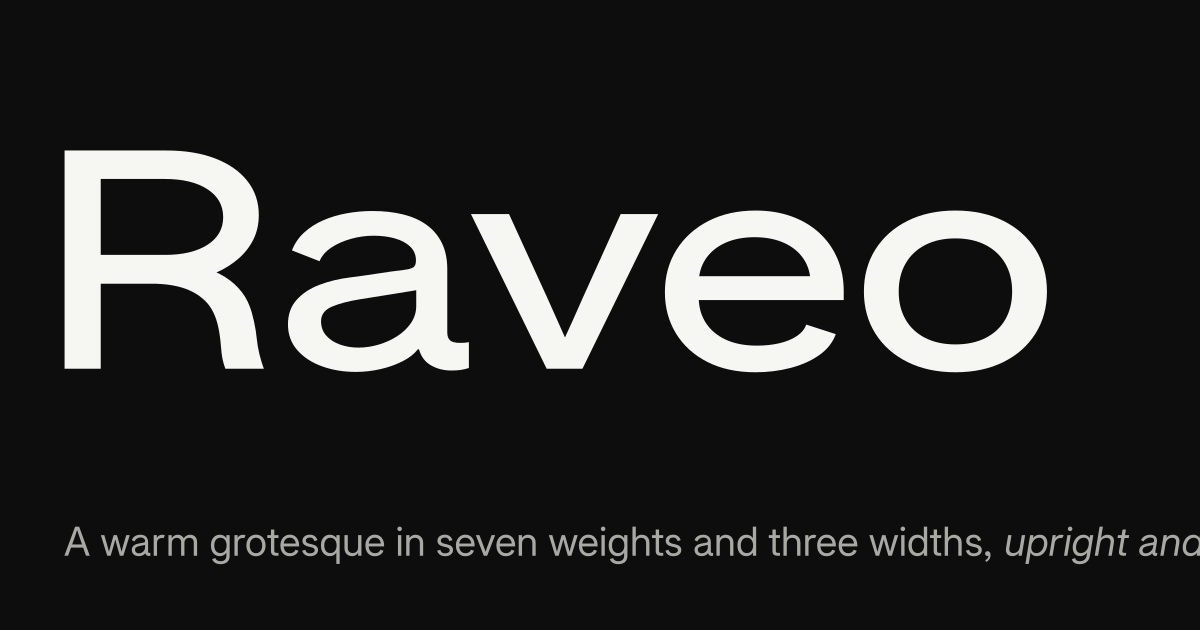
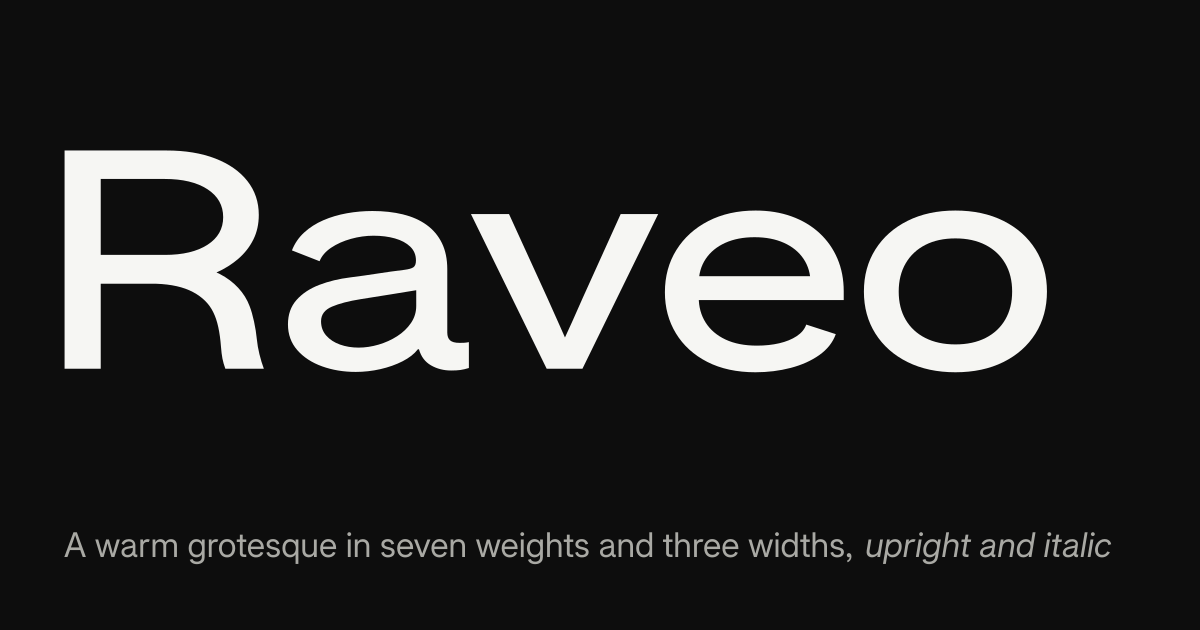
Corrections before the release
The sharing image no longer runs off its edge. Capital forms and Ordinals show what they do.
Dots were round before 2.0: only commas and quotes are new. 1.1 had Light and Black as static
fonts. Spacing at the regular width changed for r, a, the semicolon, the quotes and ď ť ľ.
The 51 characters 2.0 adds are named. The readme in the download lists its styles with commas
and gives Medium as 520.

Changed region(s): [[0.0617, 0.8444, 1.0, 0.9048]]

diff --git a/site/index.html b/site/index.html
@@ -778,7 +778,7 @@ const DETAILS = [
   ["r", "The r", "A longer, flatter arm that reaches toward the next letter.", 520, 100],
   ["a", "The a, wide", "At the wide and narrow ends the bowl is redrawn: more open, its stroke meeting the stem at an angle.", 520, "max"],
   ["ces", "Stroke endings", "Curved strokes are cut at an angle and the openings are wider.", 520, 100],
-  ["ij;", "Round dots", "Dots, commas and quotes are round.", 520, 100],
+  [",;", "Round commas", "Commas and semicolons are round.", 520, 100],
   ["„a“", "Quotes", "Round quotes, set as close as Raveo sets its own.", 520, 100],
   ["ďť", "The tick", "The tick of ď ť ľ sits near the stem and the next letter tucks under it.", 520, 100],
   ["R", "The R", "A curled leg, since the first Raveo.", 520, 100],
@@ -812,7 +812,7 @@ function pick(cp) {
   document.querySelectorAll(".cells button").forEach((b) => b.classList.toggle("on", Number(b.dataset.cp) === cp));
 }
 function buildCharacters() {
-  const seen = D.characters.filter((c) => !UNSEEN(c[2])), unseen = D.characters.length - seen.length, groups = [];
+  const seen = D.characters.filter((c) => !UNSEEN(c[2])), unseen = D.character_count - seen.length, groups = [];
   const left = store.allChars ? seen.slice() : seen.filter((c) => EVERYDAY(c[0]));
   for (const [title, test] of SETS) {
     const mine = left.filter((c) => test(c[2]));
@@ -829,9 +829,9 @@ function buildCharacters() {
 
 const FEATURES = [
   ["tnum", "Tabular figures", "Every digit takes the same width, so columns line up.", "1 117 410,10\n9 008 944,98"],
-  ["case", "Capital forms", "Punctuation moves up to sit with capitals.", "(H-H) [A:B] «¿QUÉ?»"],
+  ["case", "Capital forms", "Punctuation moves up to sit with capitals and figures.", "¡HOLA! 7 – 9"],
   ["calt", "Contextual alternates", "A times sign between figures, arrows from hyphens, a raised colon in times.", "1920x1080 -> 12:30"],
-  ["ordn", "Ordinals", "Letters after a figure rise, and No. becomes the numero sign.", "1a 2o, No. 7"],
+  ["ordn", "Ordinals", "No. becomes the numero sign.", "No. 7"],
   ["kern", "Kerning", "On by default.", "Toyota, Vary, LAVA. „Ty“"],
 ];
 function buildFeatures() {
@@ -864,12 +864,13 @@ function buildDownload() {
   const { wght: [gl, , gh], wdth: [wl, , wh] } = D.axes;
   $("news").innerHTML = [["Width", `An axis from ${wl} to ${wh}, with Narrow and Wide as named styles at every weight.`],
     ...(D.italic ? [["Italic", "An italic for every style, as a second variable font and as static files."]] : []),
-    ["Weights", `The axis now runs from ${gl} to ${gh}; Light and Black join the named weights. Styles lighter than ${gl} are gone.`],
+    ["Weights", `The axis now runs from ${gl} to ${gh}. Styles lighter than ${gl} are gone.`],
     ["Stroke endings", "Curved strokes end in an angled cut and the openings of a, c, e and s are wider."],
-    ["Dots and commas", "Round dots, commas and quotes; the tick of ď ť ľ sits closer to its letter."],
-    ["Letters", "A longer arm on the r, and a redrawn bowl on the a at the narrow and wide ends."]]
+    ["Commas and quotes", "Round commas and quotes; the tick of ď ť ľ sits closer to its letter."],
+    ["Letters", "A longer arm on the r, and a redrawn bowl on the a at the narrow and wide ends."],
+    ["Characters", "51 more, among them æ ø ð œ ă ğ ő ű and « »: Danish, Norwegian, Icelandic, Hungarian, Romanian and Turkish can be set."]]
     .map(([k, v]) => `<li><b>${k}</b><span>${v}</span></li>`).join("");
-  $("versions").innerHTML = [[D.version, `${new Date(D.date).toLocaleDateString("en-GB", { month: "long", year: "numeric" })}: width axis, ${D.italic ? "italics, " : ""}angled stroke endings, round dots`], ["1.1", "October 2024: the first public release"]]
+  $("versions").innerHTML = [[D.version, `${new Date(D.date).toLocaleDateString("en-GB", { month: "long", year: "numeric" })}: width axis, ${D.italic ? "italics, " : ""}angled stroke endings, round commas and quotes`], ["1.1", "October 2024: the first public release"]]
     .map(([k, v]) => `<li><span class="num">${k}</span><span>${v}</span></li>`).join("");
   $("lineage").innerHTML = [["Inter", "Rasmus Andersson"], ["Raveo 1.1", "Jakub Foglar, 2024"], [`Raveo ${D.version}`, `Jakub Foglar, ${new Date(D.date).getFullYear()}`], ["Source", `<a href="${D.github}">GitHub</a>`]]
     .map(([k, v]) => `<li><span>${k}</span><span>${v}</span></li>`).join("");

diff --git a/tools/release.py b/tools/release.py
@@ -229,11 +229,12 @@ installed twice. What changes:
                        versions) are gone; CSS weights below {lightest} show the Light.
   Display styles       They are part of the family "{family}" now ("{family} Display Bold"), no longer a
                        family "Raveo Display". Documents set in a Display style ask for the font again.
-  Quotes and commas    Round by default; they were square.
+  Quotes and commas    Round; they were square.
   File names           Static fonts are TrueType (.ttf) named {slug}-<Style>.ttf; the variable font is
                        {slug}-VF.ttf and {slug}-VF.woff2 (was RaveoVF). Update paths in CSS.
-  Kept                 Every character of 1.1, the variable font's names ("Raveo Variable"), line
-                       height and the spacing of the regular width.
+  Kept                 Every character of 1.1, the variable font's names ("Raveo Variable") and the
+                       line height. At the regular width only r, a, the semicolon, the quotes and
+                       ď ť ľ are spaced differently.
 """ if family == "Raveo" else ""
     single = f"""
         @font-face {{{{ font-family: "{family}"; src: url("{slug}-VF.woff2") format("woff2");
@@ -277,7 +278,6 @@ DESKTOP
 
 Install the variable font{"s" if italic else ""} or the static fonts; one set is enough. The variable font is listed as
 "{family} Variable", the static fonts as "{family}", so they do not answer to each other's names.
-If Raveo 1.1 is installed, remove it first: its files have the same names inside.
 
 desktop/variable/{slug}-VF.ttf
     One file with every {"upright " if italic else ""}style. Use this in Figma, Keynote, Adobe apps and browsers.
@@ -285,7 +285,7 @@ desktop/variable/{slug}-VF.ttf
 desktop/static/
     One file per named style, for apps that do not support variable fonts (PowerPoint, Word).
     The styles{", each also as Italic" if italic else ""}:
-    {(chr(10) + '    ').join(rows)}
+    {(',' + chr(10) + '    ').join(rows)}
 
 
 WEB
@@ -301,7 +301,7 @@ web/{slug}-VF-european.woff2{more}, web/{slug.lower()}.css
     the other the rare letters.
 
         <link rel="stylesheet" href="{slug.lower()}.css">
-        h1 {{ font-family: "{family}", sans-serif; font-weight: 500; font-stretch: {axes['wdth'][1]:g}%; }}
+        h1 {{ font-family: "{family}", sans-serif; font-weight: 520; font-stretch: {axes['wdth'][1]:g}%; }}
 {italic_web}{slim_part}
 web/static/
     Static styles as WOFF2, for the rare case a variable font cannot be used.

diff --git a/tools/site_page.py b/tools/site_page.py
@@ -67,6 +67,9 @@ LANGUAGES = [
 ]
 
 
+ENGLISH = {"Tiếng Việt": "Vietnamese"}      # what a language is called in a sentence of the page
+
+
 def _measure(path, location):
     """Stem, x-height and average letter width of one style, in font units."""
     font = instancer.instantiateVariableFont(TTFont(path), location)
@@ -114,7 +117,7 @@ def describe(path, recipe):
         "character_count": sum(1 for cp in cmap if not 0xE000 <= cp <= 0xF8FF),      # without private-use alternates
         "languages": [{"name": name, "lang": lang, "text": text} for name, lang, text in LANGUAGES
                       if all(ord(ch) in have for ch in text if not ch.isspace())],
-        "unsupported": [name for name, _, text in LANGUAGES if not all(ord(ch) in have for ch in text if not ch.isspace())],
+        "unsupported": [ENGLISH.get(name, name) for name, _, text in LANGUAGES if not all(ord(ch) in have for ch in text if not ch.isspace())],
         "github": GITHUB,
     }
     if "opsz" in axes:
@@ -181,9 +184,16 @@ def _share_image(variable, slanted, out):
         if word.width > width - 2 * margin:
             word = word.resize((width - 2 * margin, round(word.height * (width - 2 * margin) / word.width)), Image.LANCZOS)
         page.paste(word, (margin, 150))
-        parts = [line(variable, "A warm grotesque in seven weights and three widths" + ("," if slanted else ""), 40, "opsz=32,wght=400,wdth=100", QUIET)]
-        if slanted:
-            parts.append(line(slanted, "upright and italic", 40, "opsz=32,wght=400,wdth=100", QUIET))
+        def under(size):
+            parts = [line(variable, "A warm grotesque in seven weights and three widths" + ("," if slanted else ""), size, "opsz=32,wght=400,wdth=100", QUIET)]
+            if slanted:
+                parts.append(line(slanted, "upright and italic", size, "opsz=32,wght=400,wdth=100", QUIET))
+            return parts
+
+        parts, room = under(40), width - 2 * margin
+        taken = sum(part.width for part in parts) + 12 * (len(parts) - 1)
+        if taken > room:                                    # the line must end inside the picture
+            parts = under(int(40 * room / taken))
         x, y = margin, height - margin - max(part.height for part in parts)
         for part in parts:
             page.paste(part, (x, y))

diff --git a/README.md b/README.md
@@ -80,17 +80,17 @@ files without the width axis at about half the size, for pages that never use th
 
 - The weight axis starts at 300. Thin and ExtraLight are gone; weights below 300 show the Light.
 - Display styles belong to the family "Raveo" ("Raveo Display Bold"); there is no family "Raveo Display".
-- Quotes and commas are round by default.
+- Quotes and commas are round.
 - Static fonts are TrueType, named `Raveo-<Style>.ttf`; the variable font is `Raveo-VF`, not `RaveoVF`.
-- Every character of 1.1 is still there, with the same line height and the same spacing at the regular
-  width.
+- Every character of 1.1 is still there, with the same line height. At the regular width only r, a, the
+  semicolon, the quotes and ď ť ľ are spaced differently.
 
 The 1.1 files stay in [`fonts/`](fonts) at their old paths, so pages that link them keep working.
 
 ## Building it
 
-The masters in `sources/` are drawn by hand. A script derives the widths, the italic and the weights in
-between from them; its settings are in `recipe.json`.
+The masters in `sources/` are drawn by hand. `tools/pipeline.py` builds the family from them with the
+settings in `recipe.json`.
 
 ```sh
 python3 -m venv .venv && .venv/bin/pip install -r requirements.txt    # Python 3.12
@@ -108,15 +108,7 @@ The sharing image of the page needs `hb-view` (HarfBuzz); everything else comes 
 .venv/bin/python tools/serve.py                # http://localhost:4173/workbench/
 ```
 
-A page for tuning the recipe: every setting is a slider, the letters redraw as it moves, and a draft of
-the font is rebuilt in a few seconds. Settings are kept per width (narrowest, regular, widest) and per
-optical size; single letters can be adjusted on their own. Save writes `recipe.json`, Export writes a
-release.
-
-The Proofs tab sets test strings in the draft: every letter between n and o, capitals that overhang,
-figures, quotes around every letter, running text in five languages, or your own lines. A second font
-can run under each line in blue (the untouched source, Raveo 1.1, or Inter), and a click between two
-letters gives that pair's kerning, gap and nearest distance.
+A local page for adjusting `recipe.json` and proofing the result.
 
 ### Checking the spacing
 

diff --git a/FONTLOG.md b/FONTLOG.md
@@ -8,15 +8,16 @@ SIL Open Font License 1.1. This file records what changed in each version and wh
 - A width axis, 60 to 125, with Narrow and Wide as named styles at every weight.
 - An italic for every style: a second variable font and 42 static styles. It is made from Inter's
   italic source (rsms/inter at commit `66647c0`, version 4.1) with Raveo's letters carried into it.
-  The letters a, e and f are Raveo's upright forms, leaned over and corrected by rule.
-- The weight axis runs from 300 to 900 (was 100 to 900). Light and Black join the named weights; Thin
-  and ExtraLight are gone.
+  The letters a, e and f keep their upright forms.
+- The weight axis runs from 300 to 900 (was 100 to 900). Thin and ExtraLight are gone.
 - Curved strokes end in an angled cut; the openings of a, c, e and s are wider.
-- Round dots, commas and quotes. The tick of ď ť ľ sits closer to its letter and the next letter is
+- Round commas and quotes. The tick of ď ť ľ sits closer to its letter and the next letter is
   kept clear of it.
 - A longer arm on the r; a redrawn bowl on the a at the narrow and wide ends.
 - The r and the a take the longer arm and the more open bowl of the wordmark they were first drawn for.
 - Every style is derived from the hand-drawn masters in `sources/` by the settings in `recipe.json`.
+- 51 more characters, among them æ ø ð œ ă ğ ő ű and « »: Danish, Norwegian, Icelandic, Hungarian,
+  Romanian and Turkish can be set.
 - Static fonts are TrueType. Display styles are part of the family "Raveo".
 - Web fonts come in two parts with a stylesheet, upright and italic.
 - Kerning differs from Inter's in one pair: the low quote is no longer pulled toward a.

diff --git a/fonts/variable/README.md b/fonts/variable/README.md
@@ -4,4 +4,4 @@ For web use, there are two distributions:
 - *RaveoVF-subsetted.woff2* only covers the weight range of Regular–Bold (400–730) and is about 100 KB.
 
 If you don’t need very thin and very heavy weights, I recommend the subsetted version – it’s smaller.
-The desktop version, *Raveo-VF.ttf*, has the full weight range.
+The desktop version, *RaveoVF.ttf*, has the full weight range.
